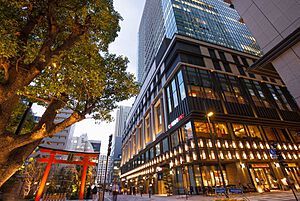
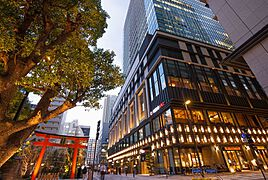
edit

diff --git a/app/uploaders/image_uploader.rb b/app/uploaders/image_uploader.rb
@@ -3,7 +3,7 @@ class ImageUploader < CarrierWave::Uploader::Base
   # include CarrierWave::RMagick
   include CarrierWave::MiniMagick
 
-  process resize_to_fit: [250, 300]
+  process resize_to_fit: [300, 180]
 
   # Choose what kind of storage to use for this uploader:
   storage :file
